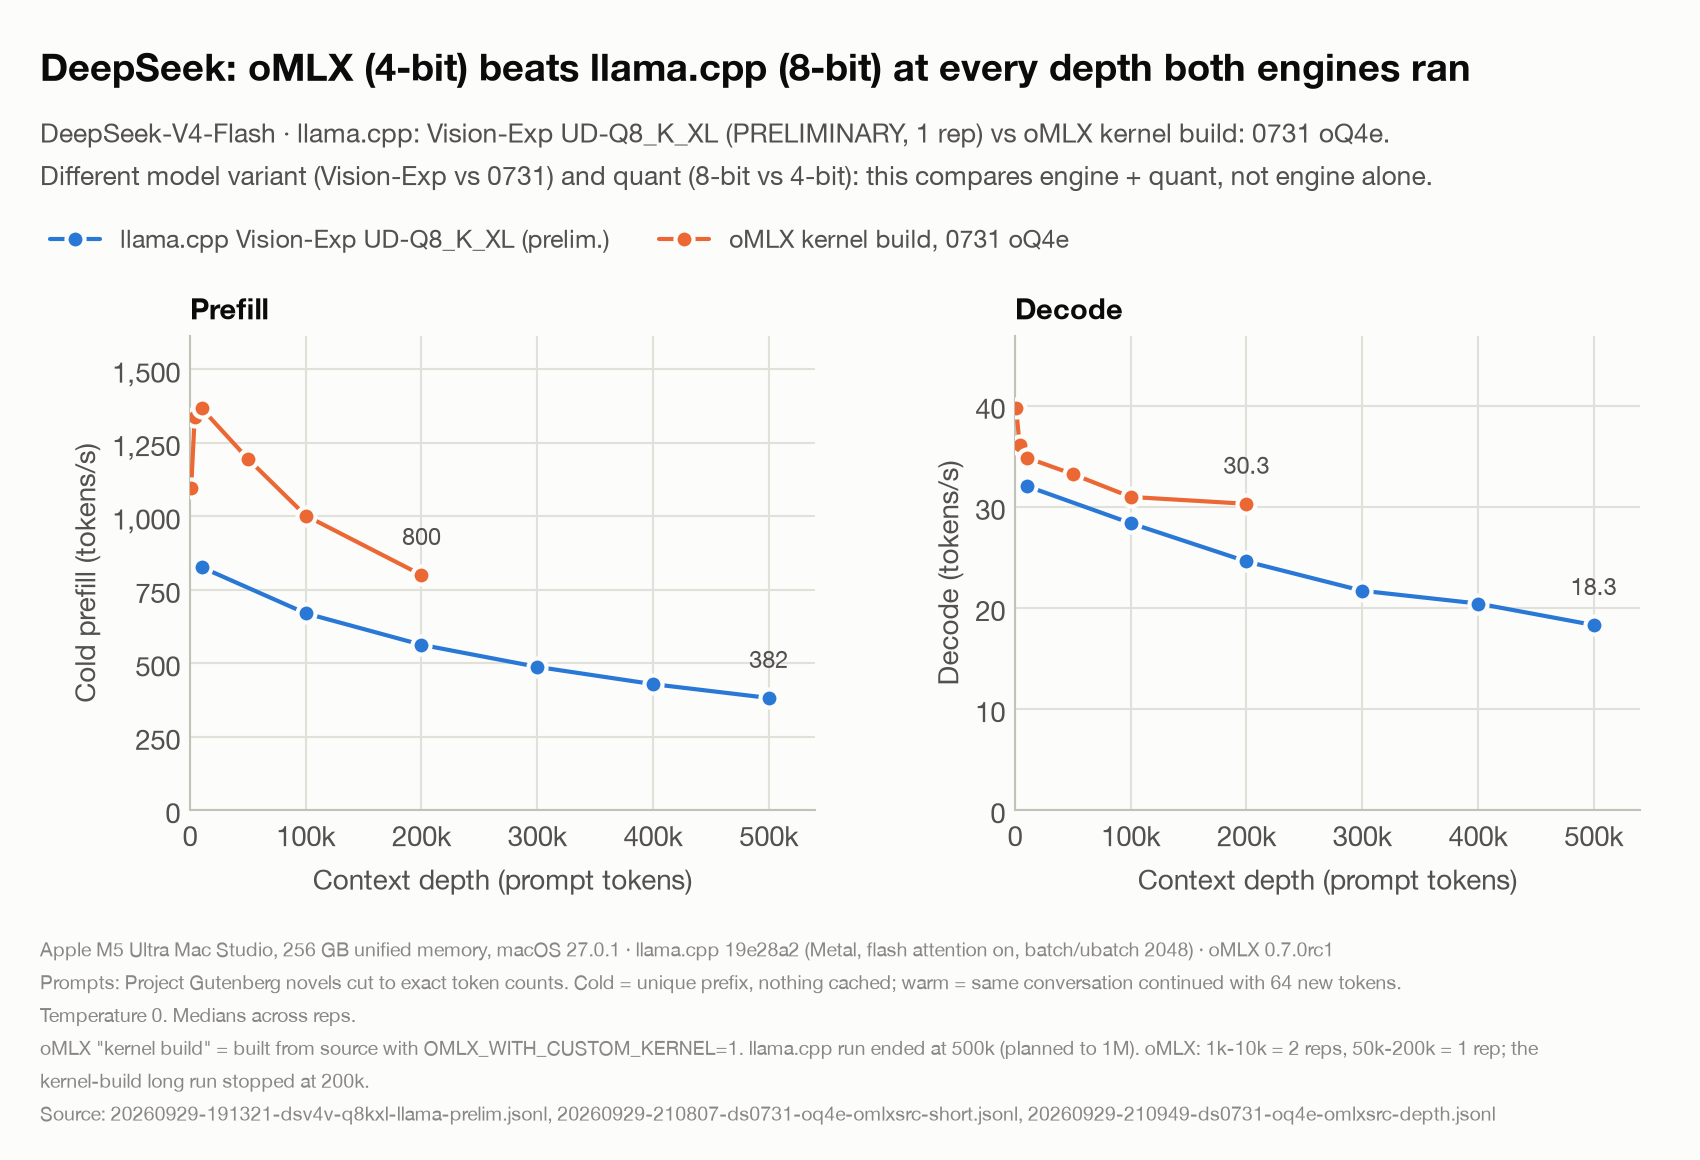
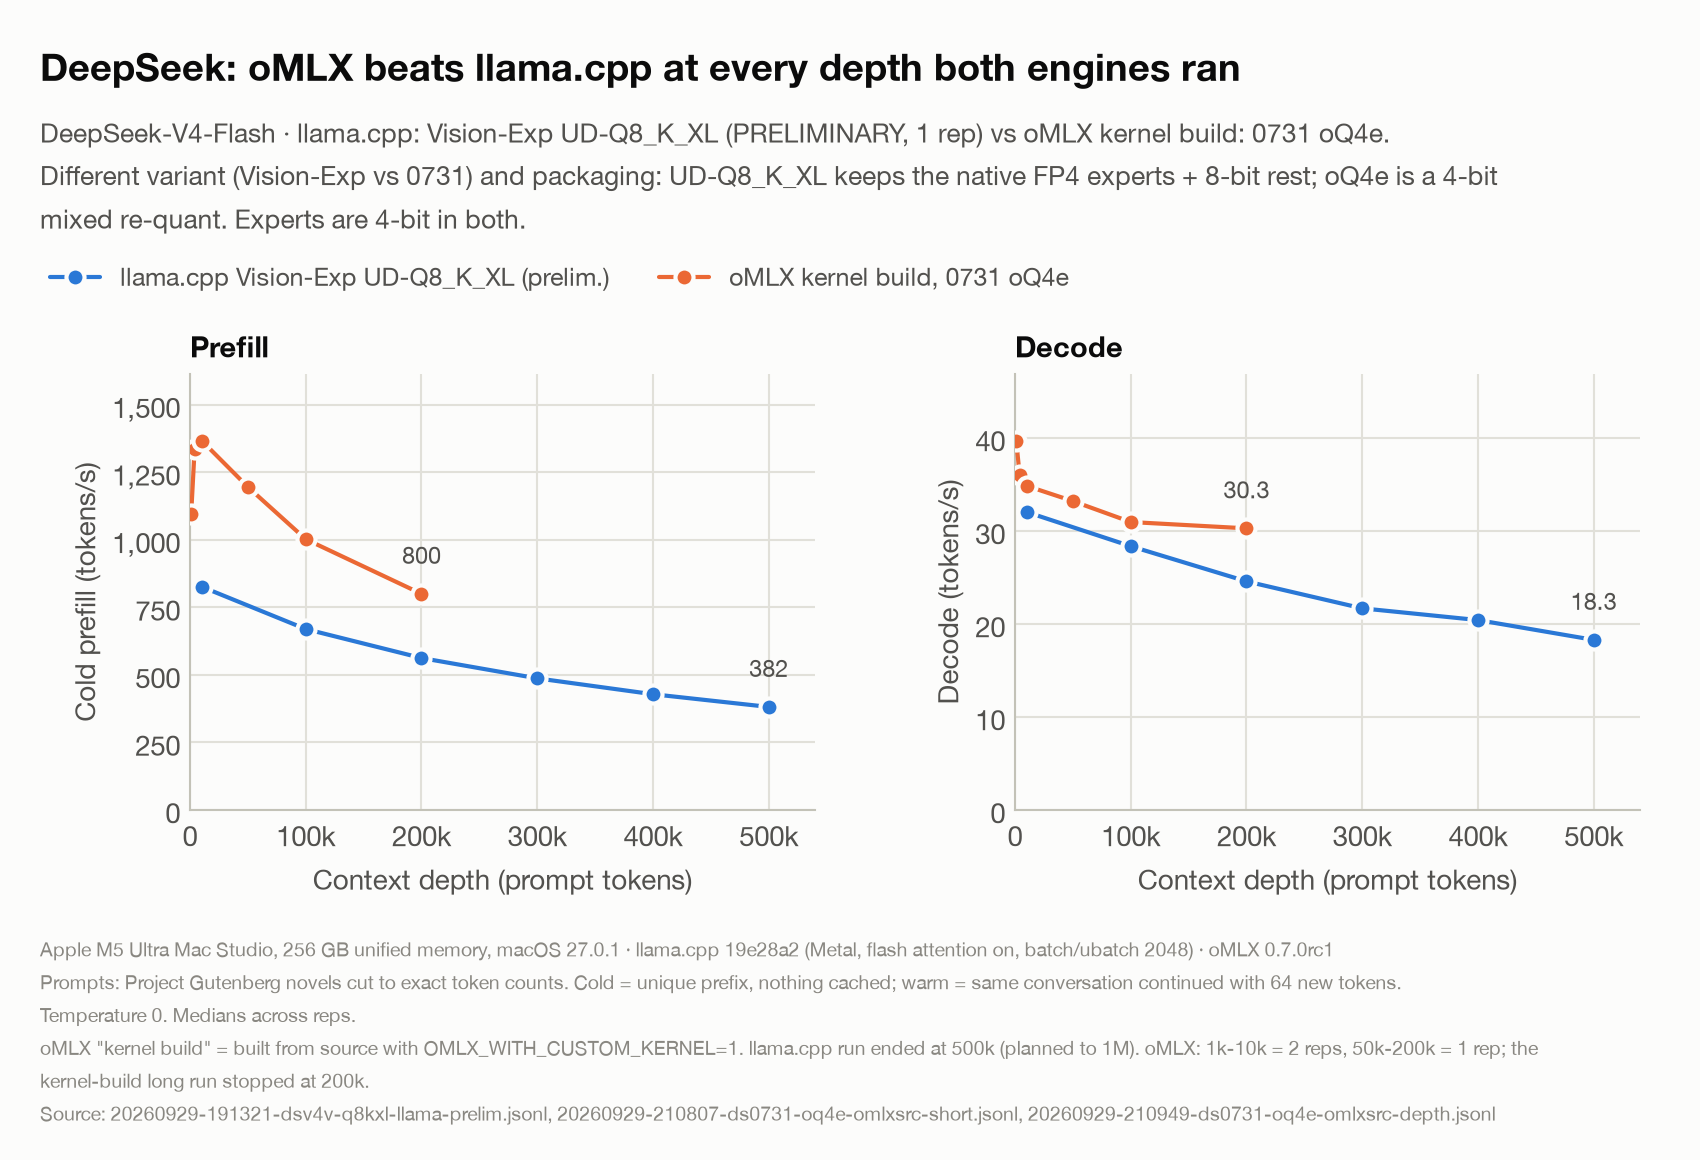
Correct DeepSeek quantization description

diff --git a/charts/make_charts.py b/charts/make_charts.py
@@ -221,8 +221,8 @@ QWEN_SETUP = ("Qwen3.8-Flash-Next · llama.cpp Q8_0 vs oMLX oQ8e (Homebrew build
               "Both final runs: 3 reps on a quiet machine.")
 DS_SETUP = ("DeepSeek-V4-Flash · llama.cpp: Vision-Exp UD-Q8_K_XL (PRELIMINARY, 1 rep) vs oMLX kernel build: "
             "0731 oQ4e.")
-DS_CAVEAT = ("Different model variant (Vision-Exp vs 0731) and quant (8-bit vs 4-bit): this compares "
-             "engine + quant, not engine alone.")
+DS_CAVEAT = ("Different variant (Vision-Exp vs 0731) and packaging: UD-Q8_K_XL keeps the native FP4 experts + 8-bit rest; "
+             "oQ4e is a 4-bit mixed re-quant. Experts are 4-bit in both.")
 DS_BUILD = ('oMLX "kernel build" = built from source with OMLX_WITH_CUSTOM_KERNEL=1. '
             "llama.cpp run ended at 500k (planned to 1M).")
 
@@ -328,7 +328,7 @@ def chart4():
         for xs, ys in ((x1, y1), (x2, y2)):
             note(ax, xs[-1], ys[-1], fmt.format(ys[-1]), dx=0, dy=9, ha="center", va="bottom")
         ax.set_title(name, loc="left", fontsize=10.5, color=INK, weight="bold")
-    ly = frame(fig, (a1, a2), "DeepSeek: oMLX (4-bit) beats llama.cpp (8-bit) at every depth both engines ran",
+    ly = frame(fig, (a1, a2), "DeepSeek: oMLX beats llama.cpp at every depth both engines ran",
                DS_SETUP + "\n" + DS_CAVEAT,
                f"{HW}\n{PROMPTS}\n{DS_BUILD} oMLX: 1k-10k = 2 reps, 50k-200k = 1 rep; the kernel-build long run "
                f"stopped at 200k.\nSource: {fname(DL)}, {fname(DK_SHORT)}, {fname(DK_DEPTH)}",
@@ -512,7 +512,7 @@ def chart8():
                          f"{rhalf(pk):,} t/s, decode {d2048:.0f} → {code_on:.0f} t/s",
           "DeepSeek-V4-Flash · llama.cpp: Vision-Exp UD-Q8_K_XL (prelim., 1 rep) · oMLX: 0731 oQ4e (2 reps). "
           "Multipliers are vs the first bar.\nEach step changes one thing, except llama.cpp → oMLX, which also "
-          "switches variant and quant (8-bit → 4-bit).",
+          "switches variant (Vision-Exp → 0731) and packaging (native FP4 experts → 4-bit re-quant).",
           f"{HW}\nubatch 512 = first llama.cpp run, {os.path.basename(first)} (superseded by the ubatch 2048 run under the "
           "same label; ubatch itself is not recorded in the JSONL). Probes in results/probes give 824 t/s "
           "(ubatch 2048) and 840 t/s (ubatch 4096) at 10k. DSpark 10k = cold 10k book prompt; DSpark code = short code "

diff --git a/WRITEUP.md b/WRITEUP.md
@@ -1,5 +1,3 @@
-# Long-context LLM and video benchmarks on an M5 Ultra
-
 A while back I promised you all M5 Ultra benchmarks. Then I remembered that every Mac benchmark on the internet is someone typing "hi" at a model and posting the tok/s like it's a PR at the gym. Nobody's life depends on how fast a model says hi back.
 
 I use these models for long documents and for coding agents that run for hours. So that's what I tested, and my Mac Studio has not been allowed to rest since. It's fine. It's a 256GB machine. It knew what it signed up for.
@@ -18,7 +16,7 @@ I use these models for long documents and for coding agents that run for hours. 
 
 If you only look at one chart, make it this one.
 
-![cold vs warm](charts/03_qwen_warm_vs_cold_ttft.png)
+![cold vs warm](03_qwen_warm_vs_cold_ttft.png)
 
 | | Cold (fresh prompt) | Warm (next step, cached) |
 |---|---|---|
@@ -34,7 +32,7 @@ So the real question isn't "how fast is prefill," it's "how often do you pay it.
 
 Qwen3.8-Flash-Next only has 12 full-attention layers out of 48, and it shows. On oMLX its decode barely moves from 10k to 250k. On llama.cpp it gasps like me on the stairs after leg day.
 
-![qwen decode](charts/02_qwen_decode_vs_depth.png)
+![qwen decode](02_qwen_decode_vs_depth.png)
 
 | Qwen, 8-bit, MTP off | 10k | 100k | 250k |
 |---|---|---|---|
@@ -51,7 +49,7 @@ With MTP on, oMLX Qwen decodes at 88 t/s at 10k and still 68 t/s at 250k, on sum
 
 DeepSeek-V4-Flash was slow out of the box. Here's what each change did at 10k context:
 
-![what each fix bought](charts/08_deepseek_what_each_fix_bought.png)
+![what each fix bought](08_deepseek_what_each_fix_bought.png)
 
 - llama.cpp with default settings: 628 t/s prefill
 - llama.cpp with `-b 2048 -ub 2048`: 827 t/s (+31%, one flag, free gains, the creatine of settings)
@@ -61,13 +59,13 @@ DeepSeek-V4-Flash was slow out of the box. Here's what each change did at 10k co
 
 Important: the Homebrew build of oMLX doesn't include the custom Metal kernels for DeepSeek's sparse attention. The log literally tells you long-context prefill is "several times slower," in the tone of a coach who's disappointed but not surprised. If you run DeepSeek V4 on oMLX, build it from source with `OMLX_WITH_CUSTOM_KERNEL=1`. You need Xcode's Metal toolchain for that, which is a 20-minute download I will never get back.
 
-Honest caveat: on DeepSeek I compared 0731 at 4-bit on oMLX against Vision-Exp at 8-bit on llama.cpp, so part of that gap is the quant, not the engine. A matched test is on my list.
+Honest caveat: on DeepSeek the two engines didn't run the exact same file. llama.cpp ran Vision-Exp (unsloth UD-Q8_K_XL, which keeps DeepSeek's native FP4 experts and FP8-ish everything else, basically lossless, 162GB). oMLX ran 0731 (Jundot's oQ4e, a 4-bit mixed re-quant of the same native format, 154GB). The experts are 4-bit in both, so this is closer to fair than it looks, but it's a different variant and a re-quant, not byte-for-byte the same model. A matched test is on my list.
 
 ## 4. MTP and DSpark
 
 Both guess a few tokens ahead. They're great on predictable stuff like JSON and code and do basically nothing for creative writing, which honestly relates to how I do at poetry.
 
-![mtp dspark](charts/07_mtp_dspark_speedup_by_task.png)
+![mtp dspark](07_mtp_dspark_speedup_by_task.png)
 
 | | Code | Reasoning | JSON | Prose |
 |---|---|---|---|---|
@@ -97,7 +95,7 @@ What I took from it:
 
 Because agents take different paths every run, I also did a cleaner engine test: I recorded one Qwen agent session (181 requests growing to 200k) and replayed the exact same requests against both engines, with the output fixed at 256 tokens per step.
 
-![replay](charts/09_qwen_replay_engines.png)
+![replay](09_qwen_replay_engines.png)
 
 | Same 181 requests, Qwen 8-bit, MTP off | oMLX | llama.cpp |
 |---|---|---|
@@ -143,7 +141,7 @@ Honest take: video diffusion is pure compute, which is exactly where NVIDIA is s
 ## Caveats
 
 - One overnight run per setup, so treat the agent numbers as a first look, not gospel.
-- The DeepSeek engine comparison mixes quant and variant (see above).
+- The DeepSeek engine comparison uses two variants (Vision-Exp vs 0731) and two packagings of the same native FP4/FP8 format (see above).
 - The LTX timings with the fixes applied are single runs; the unfixed baseline was repeatable within about 1%.
 - Qwen MTP doesn't load in mainline llama.cpp yet (unsloth has a branch), so the llama.cpp Qwen numbers are MTP off.
 
@@ -154,3 +152,5 @@ Honest take: video diffusion is pure compute, which is exactly where NVIDIA is s
 - LTX-2.3 vs 2.5, and more video settings
 
 Happy to answer questions, or run something specific if you tell me what you want to see. Meanwhile, my girlfriend says the Mac Studio and I both need to go outside. The Mac is staying in. My legs are still recovering from the sunlight.
+
+Everything is on GitHub: the scripts, raw results, charts and the hidden-test referee, so you can check my work or run it on your own machine: https://github.com/fireside-labs/m5-ultra-llm-benchmarks

diff --git a/charts/CHARTS.md b/charts/CHARTS.md
@@ -16,6 +16,6 @@ Regenerate everything: `python charts/make_charts.py` from the repo root (reads 
 
 **07_mtp_dspark_speedup_by_task.png** - Decode speedup from speculative decoding on oMLX, by task. Qwen MTP at temperature 0 gives 1.4-2.3x, largest on json and reasoning and smallest on prose and the 8k summary. At the recommended sampling settings (temp 1.0, top-k 20, top-p 0.95) it gives 1.4-2.2x. DeepSeek-0731 DSpark gives 1.5x on code, reasoning and json, 1.2x on the summary and nothing on prose. DSpark output is byte-identical to DSpark off on every task. Qwen MTP output diverges from MTP off on every task except json.
 
-**08_deepseek_what_each_fix_bought.png** - DeepSeek at 10k, one change at a time. Prefill: llama.cpp ubatch 512 gives 628 t/s, ubatch 2048 gives 827, oMLX Homebrew build 1,204 and oMLX kernel build 1,368 (2.2x in total). Decode: 32.0 t/s on llama.cpp and 35.5 on oMLX. The kernel build adds nothing to decode (34.8). DSpark lifts it to 42.5 t/s on 10k book text and 63.1 t/s on a short code prompt. The llama.cpp → oMLX step also switches from 8-bit Vision-Exp to 4-bit 0731.
+**08_deepseek_what_each_fix_bought.png** - DeepSeek at 10k, one change at a time. Prefill: llama.cpp ubatch 512 gives 628 t/s, ubatch 2048 gives 827, oMLX Homebrew build 1,204 and oMLX kernel build 1,368 (2.2x in total). Decode: 32.0 t/s on llama.cpp and 35.5 on oMLX. The kernel build adds nothing to decode (34.8). DSpark lifts it to 42.5 t/s on 10k book text and 63.1 t/s on a short code prompt. The llama.cpp → oMLX step also switches variant (Vision-Exp to 0731) and packaging (UD-Q8_K_XL keeps the native FP4 experts; oQ4e is a 4-bit mixed re-quant).
 
 **09_qwen_replay_engines.png** - The same 181 requests recorded from one Qwen agent session (context growing to ~200k tokens, up to 256 output tokens each, MTP off) replayed in order on both engines, each starting from an empty cache. oMLX finishes in 18.5 min, llama.cpp in 29.7 min. llama.cpp starts each request sooner (median TTFT at 150-200k: 1.6 vs 2.4 s), but oMLX decodes far faster (52 vs 22 t/s at 150-200k, as llama.cpp's decode falls from ~50 t/s with depth), and decode dominates. Three panels against prompt tokens: TTFT and decode speed per request (dots, with a 15-request rolling median) and cumulative elapsed time. Caveat: llama.cpp was sent ignore_eos and always produced 256 tokens; oMLX stopped early on 39 of 181 requests (42,892 vs 46,336 output tokens). At its own decode speed the missing tokens would add ~1 min, so oMLX would still finish in ~19.5 min.

diff --git a/README.md b/README.md
@@ -56,8 +56,9 @@ Replaying the same 181-request Qwen agent session (to 200k, 256 output tokens pe
 on oMLX against 29.7 min on llama.cpp. LTX-2.5 generated 5 s of 1080p video with audio in 244 s
 (`--gpu-only`, 1024 VAE tiles), and 720p in 92 s.
 
-Caveats: there was one overnight run per setup. The DeepSeek engine comparison mixes model variant and quant
-(0731 oQ4e on oMLX, Vision-Exp Q8 on llama.cpp). See WRITEUP.md for the details.
+Caveats: there was one overnight run per setup. The DeepSeek engine comparison uses two variants and two packagings of the same
+native format (DeepSeek ships FP4 experts + FP8 elsewhere): 0731 as oQ4e, a 4-bit mixed re-quant, on oMLX;
+Vision-Exp as UD-Q8_K_XL, which keeps the native FP4 experts, on llama.cpp. Experts are 4-bit in both. See WRITEUP.md for the details.
 
 ## Layout
 
